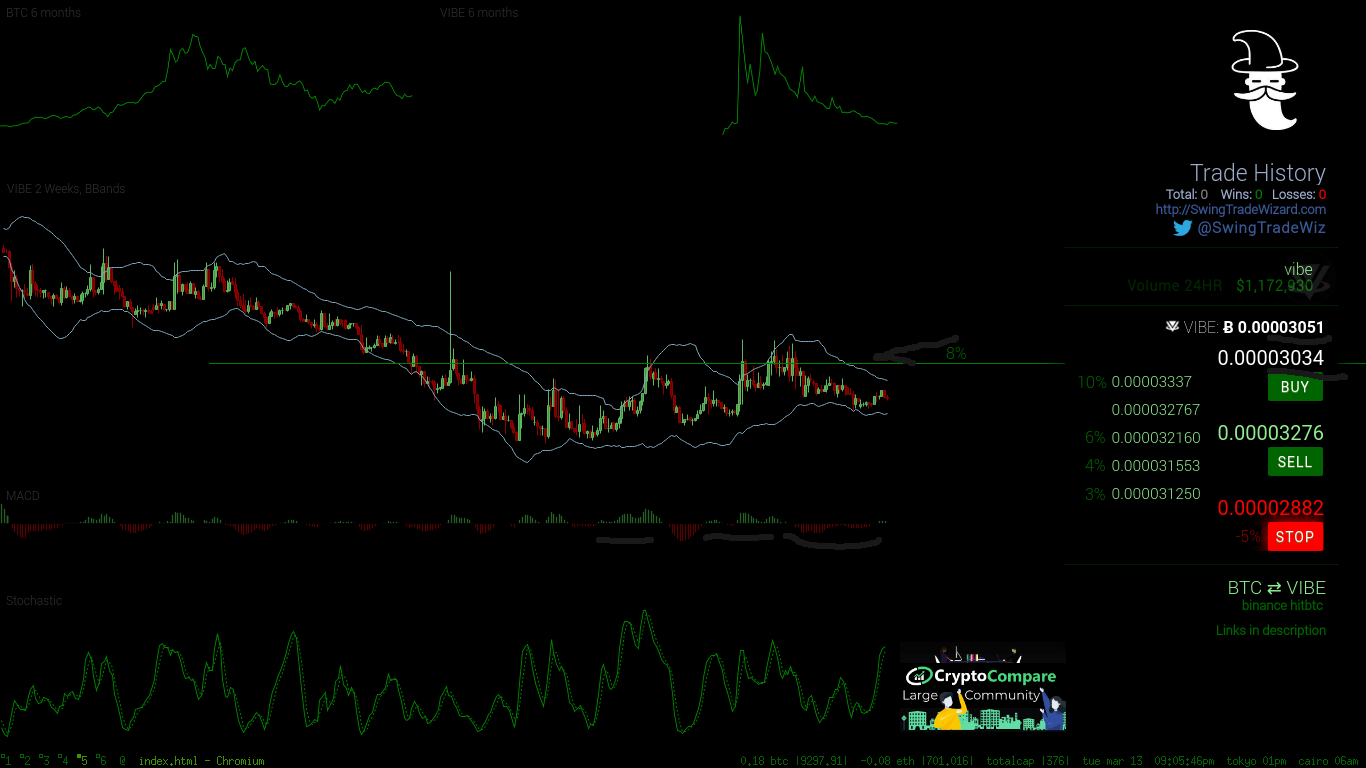
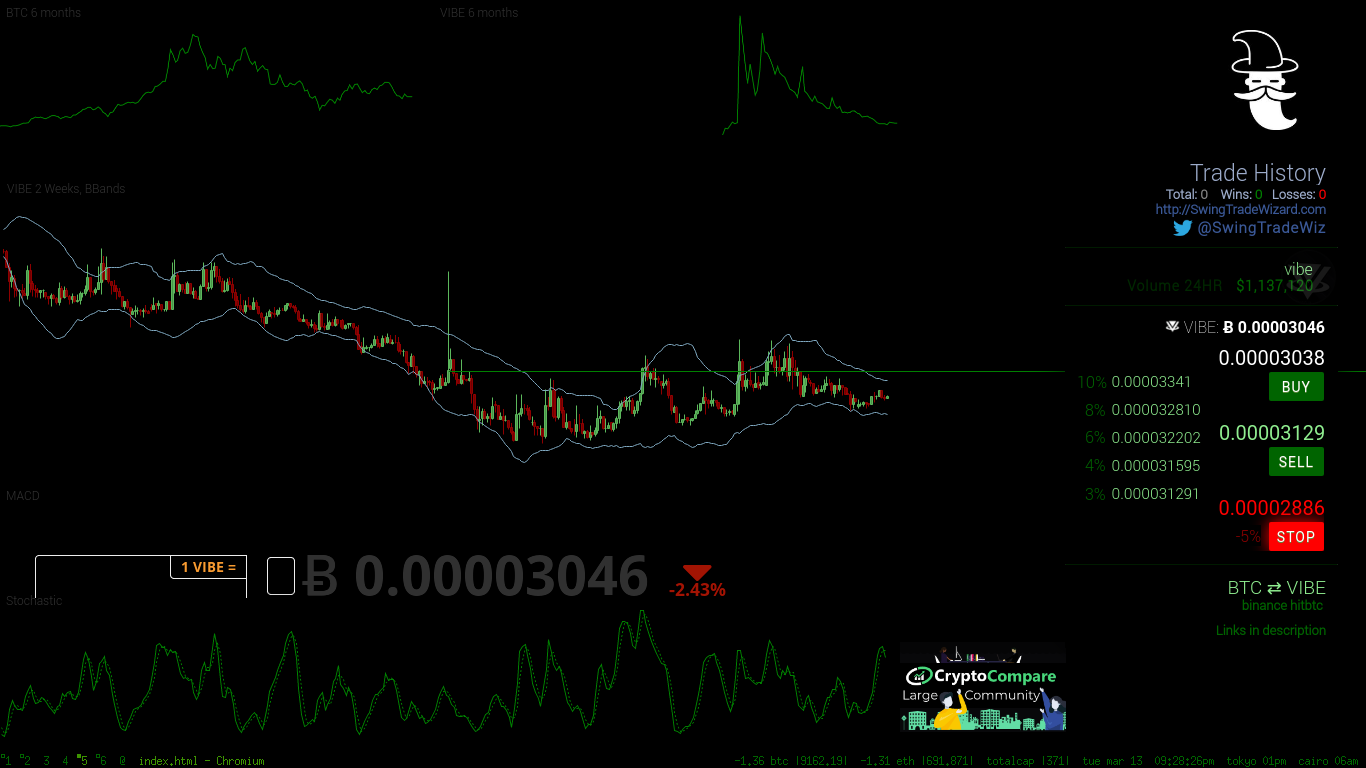
update

diff --git a/blog/Trades/1.html b/blog/Trades/1.html
@@ -83,7 +83,7 @@ Swing Trading Resource
 
 	<div class='content'>
 	<p>
-<i> Tue Mar 13 21:06:01 PDT 2018 </i>
+<i>  </i>
 </p>
 
 <p>
@@ -92,17 +92,17 @@ VIBE
 
 <p>
 <tt>BUY</tt><br>
-<u> 0.00003034  </u>
+<u> 0.00003038  </u>
 </p>
 
 <p>
-<tt>SELL +7%</tt><br>
-<u> 0.00003276 </u>
+<tt>SELL +2%</tt><br>
+<u> 0.000031291 </u>
 </p>
 
 <p>
 <tt>STOP -5%</tt><br>
-<u> 0.00002882 </u>
+<u> 0.00002886 </u>
 </p>
 
 <p>
@@ -128,8 +128,8 @@ embedder.parentNode.appendChild(s);
 
 
 <h2>VIBE Analysis Video</h2>
-<a target="_blank" href="https://www.youtube.com/embed/Creating playlist: Trading Calls">Watch in fullscreen</a> - <a href="https://www.youtube.com/watch?v=Creating playlist: Trading Calls&list=PLIEgpo-TeCAQ8RezjUpMqgQDUts2pXFg2" target="_blank">Watch in playlist</a><br><br>
-<div class="video-container"><iframe width="853" height="480" src="https://www.youtube.com/embed/Creating playlist: Trading Calls" frameborder="0"></iframe></div>
+<a target="_blank" href="https://www.youtube.com/embed/bum5CLnaWRw">Watch in fullscreen</a> - <a href="https://www.youtube.com/watch?v=bum5CLnaWRw&list=PLIEgpo-TeCAQ8RezjUpMqgQDUts2pXFg2" target="_blank">Watch in playlist</a><br><br>
+<div class="video-container"><iframe width="853" height="480" src="https://www.youtube.com/embed/bum5CLnaWRw" frameborder="0"></iframe></div>
 <h2>VIBE Analysis Screenshot</h2>
 <a target="_blank" href="http://swingtradewizard.com/images/1.png">Open full size</a><br><br>
 <img style="width:500px;" src="http://swingtradewizard.com/images/1.png">
@@ -147,11 +147,14 @@ embedder.parentNode.appendChild(s);
 
 </p>
 
-<h4>VIBE Exchanges</h4>
+<h2>VIBE Exchanges</h2>
 
 <br>
-<br>
 
+<p>
+🔸 <a href="http://swingtradewizard.com/hitbtc/" title="http://swingtradewizard.com/hitbtc/" class="http">http://swingtradewizard.com/hitbtc/</a><br>
+🔸 <a href="http://swingtradewizard.com/binance/" title="http://swingtradewizard.com/binance/" class="http">http://swingtradewizard.com/binance/</a>
+</p>
 
 	</div>
 

diff --git a/style.css b/style.css
@@ -9,27 +9,33 @@ u {color:white!important;
 padding-left:5px;
 background:black!important;
 font-size:19px;
+
 padding-right:5px;}
 
 body > div.pages > div.content > p:nth-child(3) > u {
-color:gold!important;
+color:white!important;
 padding-left:5px;
 background:black!important;
-font-size:19px;
+font-size:17px;
+letter-spacing:1.1;
+
 padding-right:5px;}
 
 body > div.pages > div.content > p:nth-child(4) > u {
 color:#093!important;
 padding-left:5px;
 background:black!important;
-font-size:19px;
+font-size:17px;
+letter-spacing:1.1;
+
 padding-right:5px;}
 
 body > div.pages > div.content > p:nth-child(5) > u {
 color:#d24119!important;
 padding-left:5px;
 background:black!important;
-font-size:19px;
+font-size:17px;
+letter-spacing:1.1;
 padding-right:5px;}
 
 

diff --git a/index.htm b/index.htm
@@ -62,7 +62,7 @@ Swing Trading Resource
 
 <div class="table_container">
 <table cellspacing="0" cellpadding="0">
-<tr id="neutral"><td><a name=1 href=http://swingtradewizard.com/blog/Trades/1.html>#1 vibe</a></td><td><span data-livestamp="1521000361"></span></td><td>0.00003034 </td><td>0.00003276</td><td>0.00002882</td><td>NEUTRALTRADE</td><td><br></td></tr>
+<tr id="neutral"><td><a name=1 href=http://swingtradewizard.com/blog/Trades/1.html>#1 vibe</a></td><td><span data-livestamp="1521001742"></span></td><td>0.00003038 </td><td>0.000031291</td><td>0.00002886</td><td>NEUTRALTRADE</td><td><br></td></tr>
 </table>
 <title>Homepage</title>
 

diff --git a/log/index.htm b/log/index.htm
@@ -1,3 +1,4 @@
+2018-03-13 Tuesday 9 PM - Trade #1... +2% call with vibe<br><br>
 2018-03-13 Tuesday 9 PM - Trade #1... +7% call with vibe<br><br>
 2018-03-13 Tuesday 8 PM - Trade #2... +2% call with suncontract<br><br>
 2018-03-13 Tuesday 7 PM - Trade #1... +8% call with gulden<br><br>
